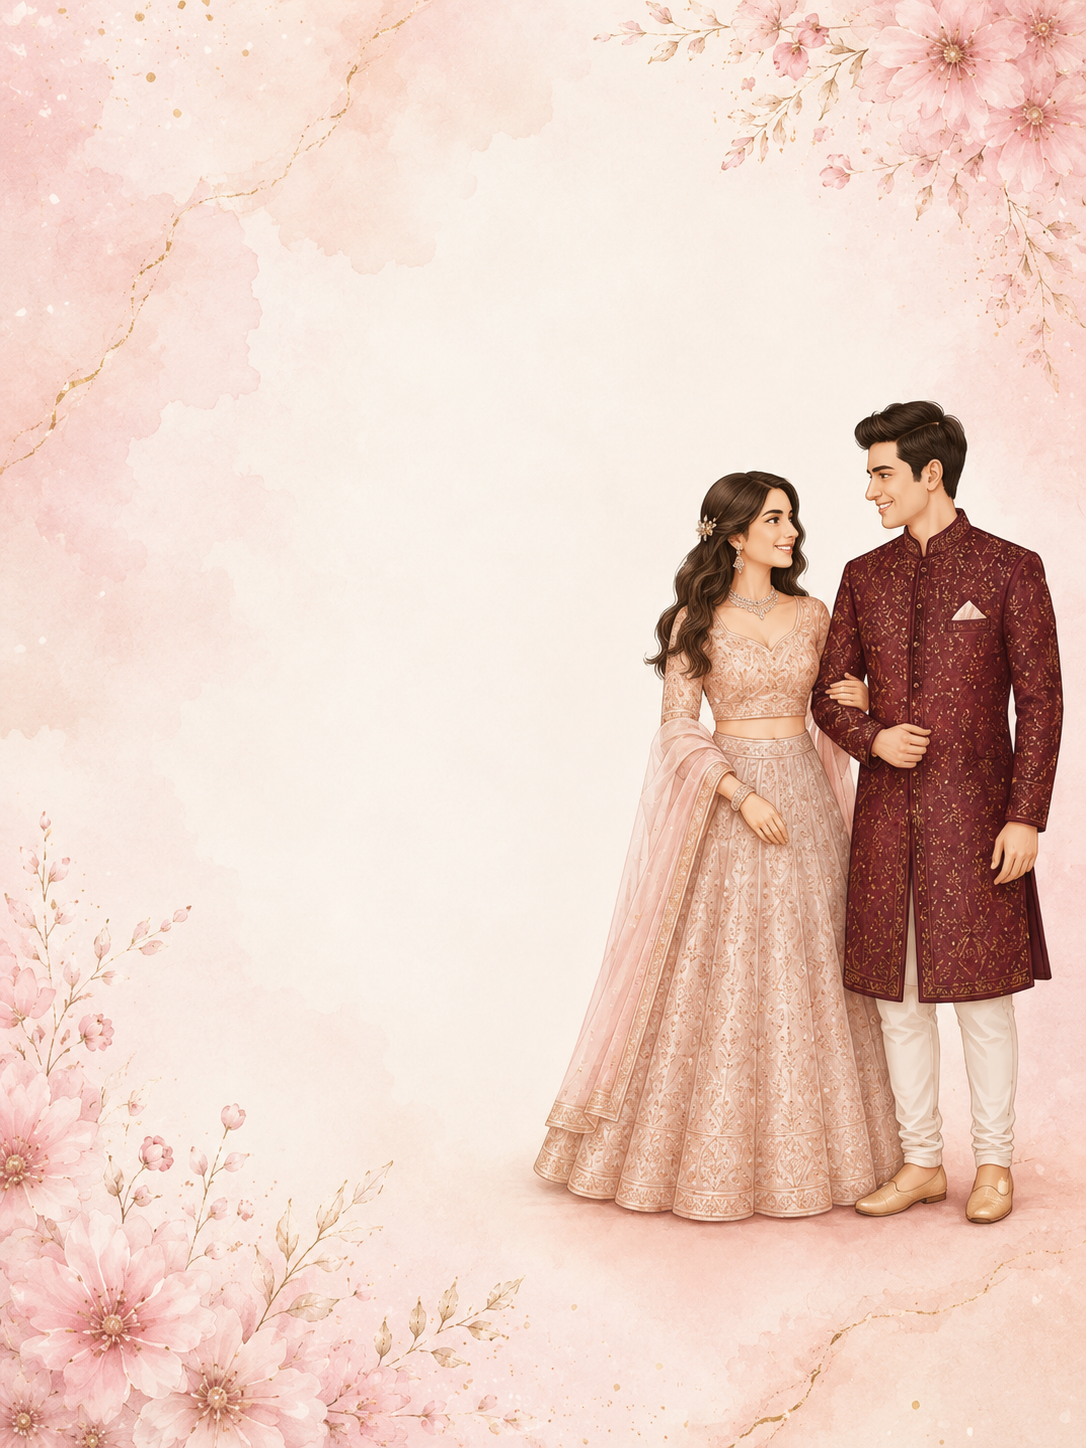
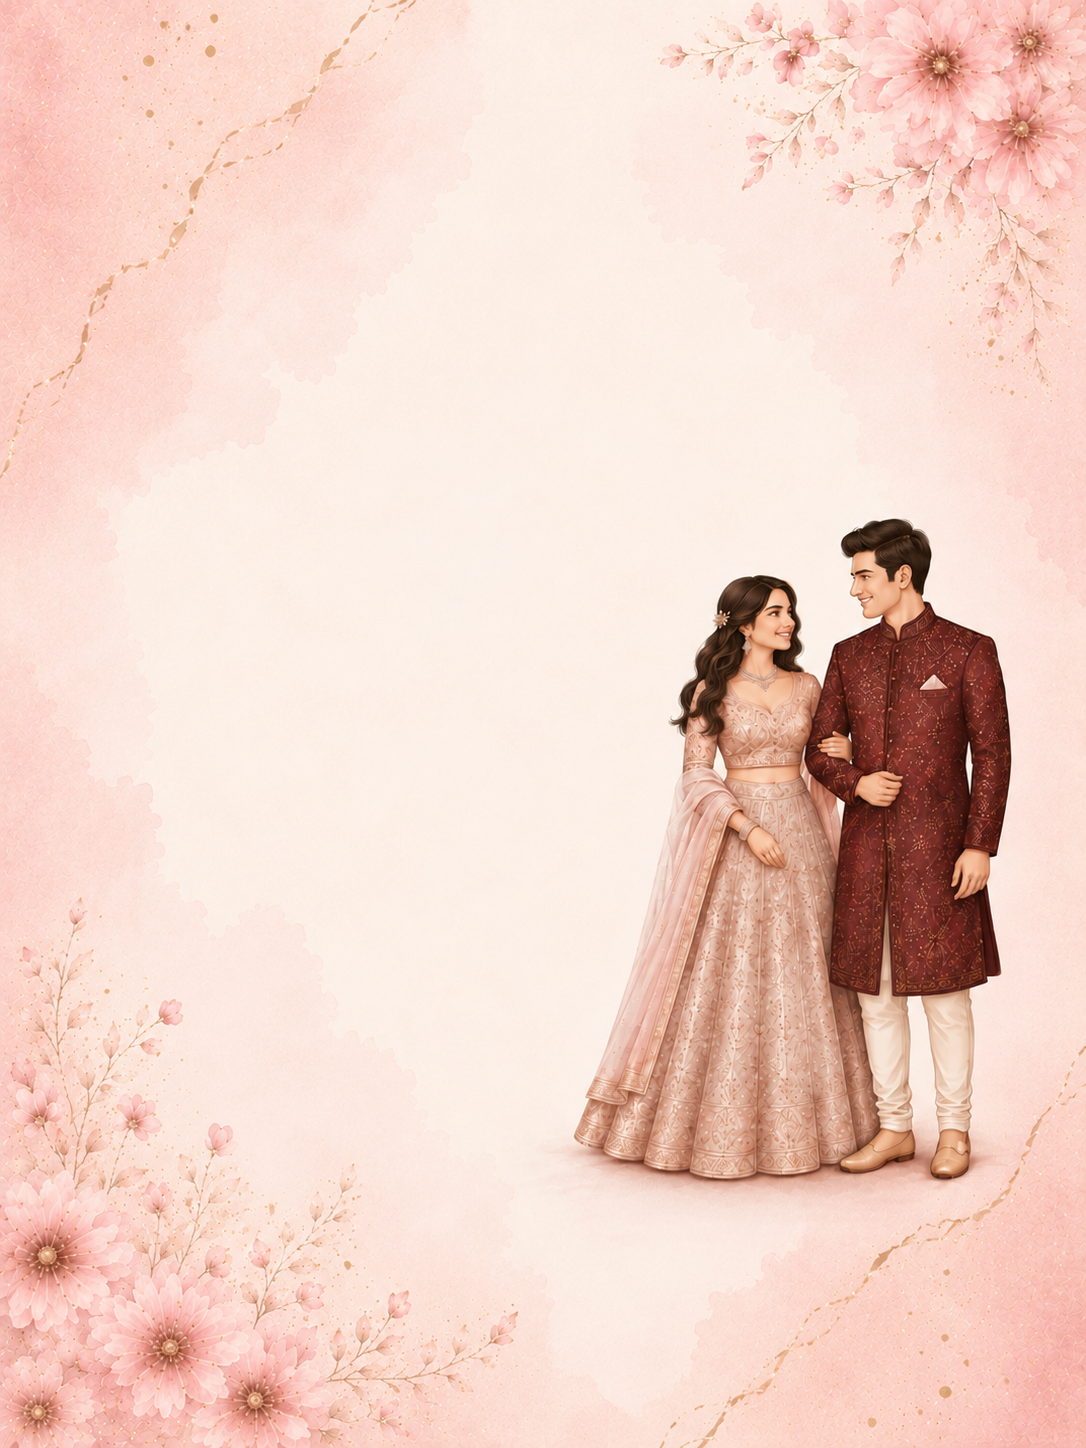
final_edits

diff --git a/src/styles.css b/src/styles.css
@@ -142,7 +142,7 @@ h2{
 
 .divider span{
   width:120px;
-  height:1px;
+  height:2px;
   background:
     linear-gradient(
       90deg,
@@ -159,7 +159,7 @@ h2{
 .hero-card{
   position:relative;
   text-align:center;
-  margin-top:30vh;
+  margin-top:25vh;
   transform:translateY(-50%);
   padding:36px 20px;
   width:100%;
@@ -255,28 +255,40 @@ h2{
   font-size:clamp(2.0rem,10vw,3.6rem);
   line-height:1.1;
   font-weight:500;
-
 }
 .eyebrow span{
   display:block;
 }
 
-.family-label{
+/*.family-label{
   font-size:18px;
   letter-spacing:1px;
   text-transform:uppercase;
   opacity:.8;
   margin-bottom:2px;
-}
-.couple-grid{
+}*/
+/*.couple-grid{
   display:grid;
   grid-template-columns:1fr 1fr;
   gap:40px;
   width:80%;
   margin-top:18px;
   align-items:start;
-}
+}*/
 
+.divider-page2{
+  justify-content:flex-start;
+  margin-left:0;
+  width:100%;
+}
+.couple-grid{
+  display:flex;
+  flex-direction:column;
+  align-items:flex-start;
+  gap:28px;
+  width:100%;
+  margin-top:18px;
+}
 .person-block{
   display:flex;
   flex-direction:column;
@@ -288,7 +300,7 @@ h2{
   font-family:'Cormorant Garamond',serif;
   font-size:60px;
   font-weight:600;
-  line-height:1.15;
+  line-height:1.75;
   margin-bottom:10px;
   color:#6D071A;
 }
@@ -320,7 +332,7 @@ h2{
   margin:34px 0;
 }
 
-.detail{
+/*.detail{
   text-decoration:none;
   color:var(--maroon);
   border-left:
@@ -332,6 +344,19 @@ h2{
   justify-content:center;
   gap:10px;
   min-height:112px;
+  transition:.25s;
+}*/
+.detail{
+  text-decoration:none;
+  color:var(--maroon);
+  border-left:1px solid rgba(201,154,55,.55);
+  padding:8px 10px;
+  display:flex;
+  flex-direction:column;
+  align-items:center;
+  justify-content:center;
+  gap:4px;
+  min-height:72px;
   transition:.25s;
 }
 

diff --git a/src/App.jsx b/src/App.jsx
@@ -3,6 +3,7 @@ import { CalendarDays, Clock, MapPin, Phone, Mail } from 'lucide-react';
 import { invite } from './inviteConfig';
 import './styles.css';
 import React, { useState, useRef } from 'react';
+import React, { useState, useRef, useEffect } from 'react';
 
 function Detail({icon, label, href}){
   return <a className="detail glow-link" href={href} target={href?.startsWith('http')?'_blank':undefined} rel="noreferrer">
@@ -24,6 +25,24 @@ function App(){
   const audioRef = useRef(null);
 
 const [playing, setPlaying] = useState(false);
+useEffect(() => {
+  const startMusic = async () => {
+    if (audioRef.current) {
+      try {
+        await audioRef.current.play();
+        setPlaying(true);
+      } catch (err) {
+        console.log('Autoplay blocked');
+      }
+    }
+    window.removeEventListener('click', startMusic);
+    window.removeEventListener('touchstart', startMusic);
+    window.removeEventListener('scroll', startMusic);
+  };
+  window.addEventListener('click', startMusic);
+  window.addEventListener('touchstart', startMusic);
+  window.addEventListener('scroll', startMusic);
+}, []);
 
 const toggleMusic = () => {
 
@@ -96,7 +115,7 @@ const toggleMusic = () => {
             <span>We would like to invite you</span>
             <span>to the engagement ceremony of</span>
             </p>
-        <div className="divider"><span></span>♥<span></span></div>
+        <div className="divider divider-page2"><span></span>♥<span></span></div>
         <h2>{invite.names}</h2>
         <div className="couple-section"></div>
        <div className="couple-grid">
@@ -250,9 +269,11 @@ const toggleMusic = () => {
     <audio
       ref={audioRef}
       loop
+      preload="auto"
+      playsInline
     >
     <source
-    src="/music/nazm-nazm.mp3"
+    src="/music/romantic-music.mp3"
     type="audio/mpeg"
     />
     </audio>